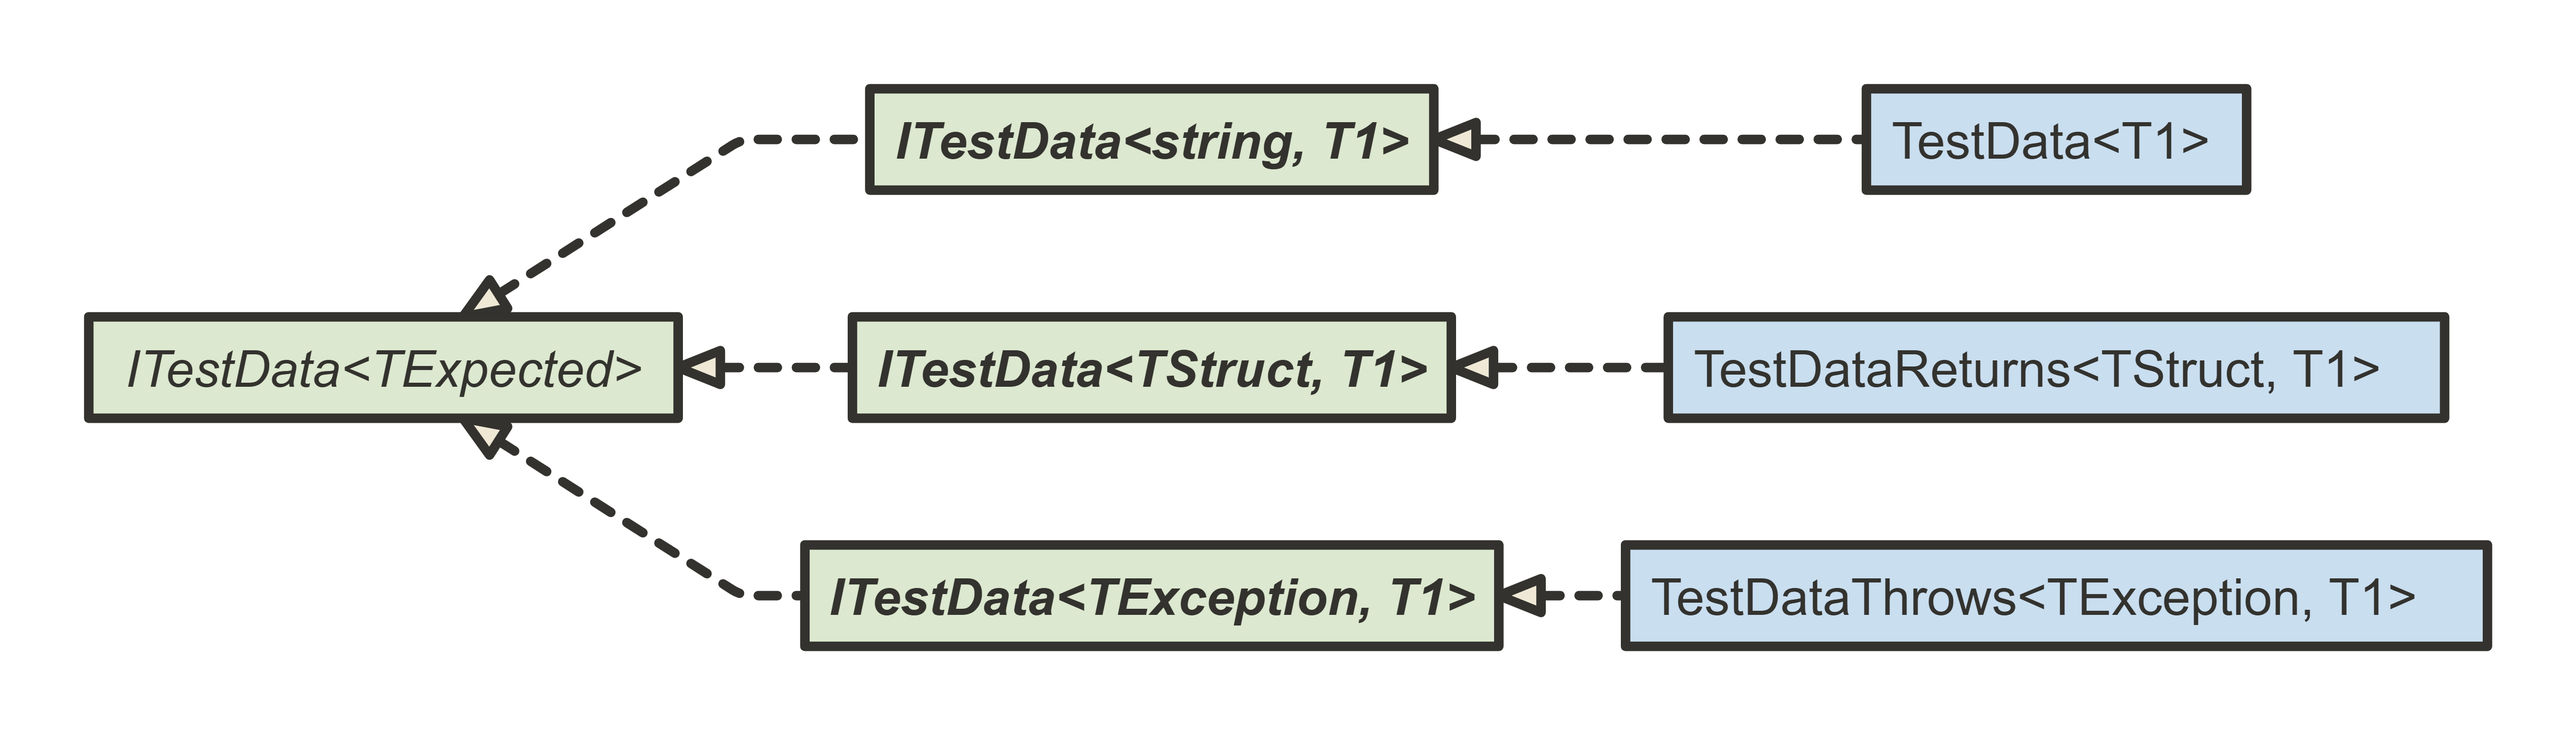
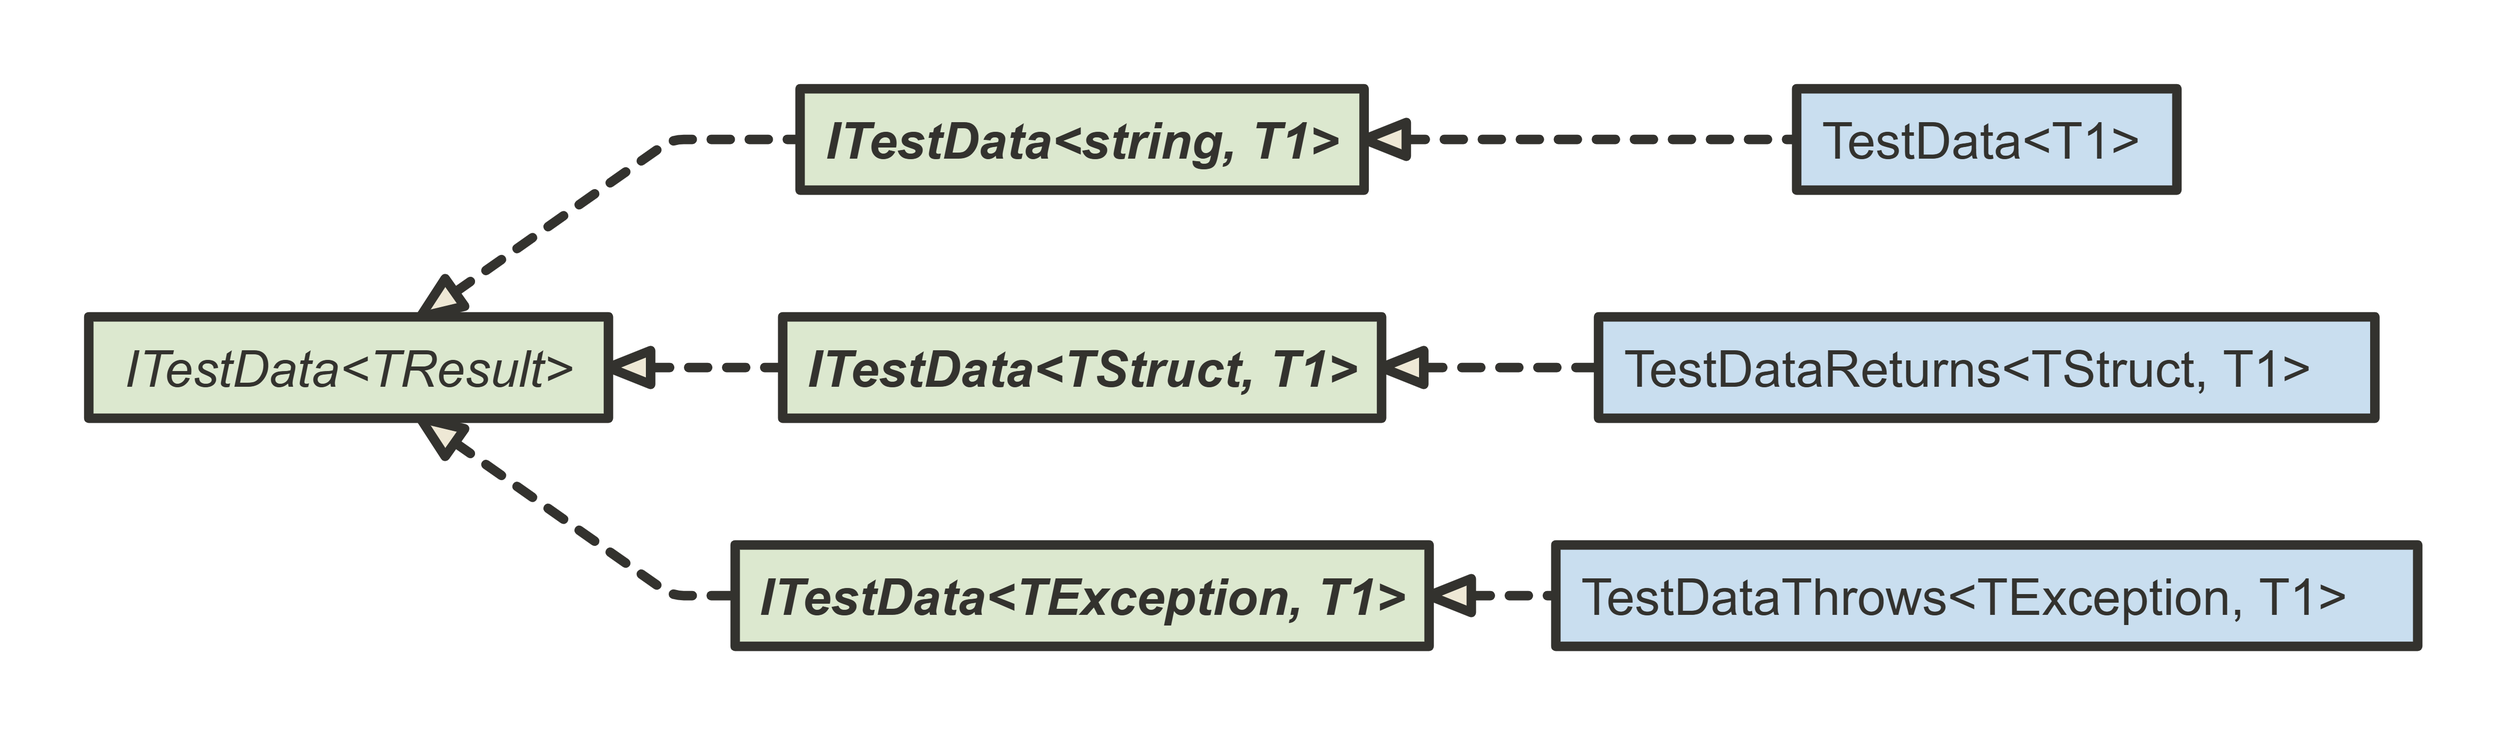
rm, diagram

Changed region(s): [[0.0312, 0.4034, 0.9658, 0.9], [0.1558, 0.0931, 0.8723, 0.4345]]

diff --git a/README-beta.md b/README-beta.md
@@ -286,7 +286,7 @@ This architecture enables type-safe test data composition while maintaining intu
 This project is designed to **automatically generate human-readable descriptive test name** for each test case by combining  
   1. decriptive test scenarios (`ITestData.Definition` property value), 
   2. selected test-data-type (`TestData<>`/`TestDataReturns<>`/`TestDataThrows<>`) specific result mode (e.g., *"returns"*, *"throws"*), and 
-  3. primary test parameter (`ITestData.Expected` property's string representation).
+  3. primary test parameter (`ITestData<TResult>.Expected` property's string representation).
 
 - **First-Class Concern**: Not just a utility feature, but a core design goal to make tests: 
   - Self-validating (names match intent) 
@@ -1145,20 +1145,52 @@ public class BirthDay : IComparable<BirthDay>
 }
 ```
 
-### **Test Framework Independent Dynamic Data Source**
-(Updated v1.2.0)
+### **Sample Test with DynamicObjectArraySource**
 
-You can easily implement test framework independent dynamic data source by extending the `DynamicDataSource` base class with `IEnumerable<object?[]>` type data source methods. You can use these directly in either test framework. You can easily adjust your already existing data source methods you used with version 1.0.x yet to have the benefits of the new feature (see comments in the sample code):
+The following sample code demonstrates how to use the `DynamicObjectArraySource` class for testing the `BirthDay` class in MSTest.
 
-1. Add an optional `ArgsCode?` parameter to the data source methods signature.
-2. Add `optionalToArgs` local method to the enclosing data source methods and call `OptionalToArgs` method with the `testDataToArgs` and `argsCode` parameters.
-3. Call `optionalToArgs` local method to generate object arrays with data-driven test arguments .
+```csharp
+namespace CsabaDu.DynamicTestData.SampleCodes.DynamicDataSources;
 
-However, note that this version is fully compatible backward, you can use the data source test classes and methods with the current version without any necessary change. The first data source method of the sample code remained unchanged as simpler but less flexible implememtation.
+public class BirthDayDynamicObjectArraySource(ArgsCode argsCode, PropsCode propsCode)
+: DynamicObjectArraySource(argsCode, propsCode)
+{
+    #region Static Fields
+    private static readonly DateOnly Today =
+        DateOnly.FromDateTime(DateTime.Now);
+    #endregion
 
-See the updated (flexible) test method implementation in the [Usage of the Optional ArgsCode Parameter of the Data Source Methods)](#usage-of-the-optional-argscode-parameter-of-the-data-source-methods) section.
+    #region Methods
+    // 'TestData<DateOnly>' type usage.
+    // Valid 'string name' parameter should be declared and initialized
+    // within the test method.
+    public IEnumerable<object?[]>? GetBirthDayConstructorValidArgs(
+        ArgsCode? argsCode = null,
+        PropsCode? propsCode = null)
+    {
+        string expected = "creates BirthDay instance";
+        string paramName = "dateOfBirth";
 
-The 'native' dynamic data source class with the new feature looks like:
+        // Valid name and dateOfBirth is equal with the current day => creates BirthDay instance
+        string definition = $"Valid name and {paramName} is equal with the current day";
+        DateOnly dateOfBirth = Today;
+        yield return testDataToParams();
+
+        // Valid name and dateOfBirth is less than the current day => creates BirthDay instance
+        definition = $"Valid name and {paramName} is less than the current day";
+        dateOfBirth = Today.AddDays(-1);
+        yield return testDataToParams();
+
+        #region Local Methods
+        object?[] testDataToParams()
+        => TestDataToParams(
+            description,
+            expected,
+            dateOfBirth))!;
+        #endregion
+    }
+}
+```
 
 ```csharp
 namespace CsabaDu.DynamicTestData.SampleCodes.DynamicDataSources;
